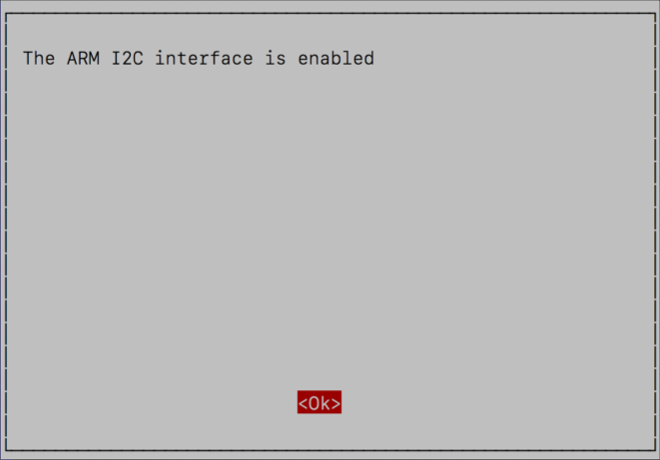
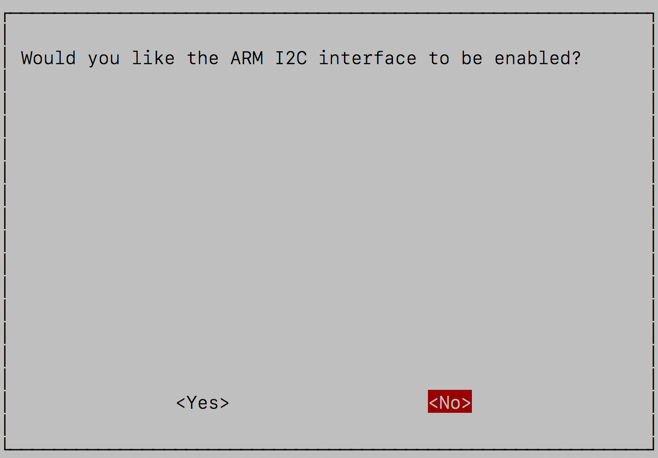
Updating disabling of I2C

diff --git a/Steps/SetUpTheEnvironmentMonitor.md b/Steps/SetUpTheEnvironmentMonitor.md
@@ -76,9 +76,9 @@ Once the SD card has Raspbian Lite installed on it, you will need to modify a co
 
     Enter the current password, then a new password, then confirm the new password.
 
-## Turn on the I2C interface
+## Turn off the I2C interface
 
-The BME280 sensor is connected to an I2C (I squared C) interface. By default, this interface is disabled on the Pi, so it needs to be turned on.
+For the grove sensor to work, the I2C interface needs to be disabled as all I2C communications take place over the Grove base hat. 
 
 1. Launch the configuration tool on the Pi using the following command
 
@@ -94,7 +94,7 @@ The BME280 sensor is connected to an I2C (I squared C) interface. By default, th
 
     ![The I2C option](../Images/RaspiConfigInterfaceOptions.png)
 
-1. Select *Yes*
+1. Select *No*
 
    ![Select yes to turn it on](../Images/RaspiConfigEnableI2C.png)
 
@@ -114,7 +114,7 @@ The BME280 sensor is connected to an I2C (I squared C) interface. By default, th
 
     The SSH connection will be terminated, so you will need to reconnect.
 
-Once the Pi reboots the I2C interface will be enabled.
+Once the Pi reboots the I2C interface will be disabled.
 
 <hr>
 
